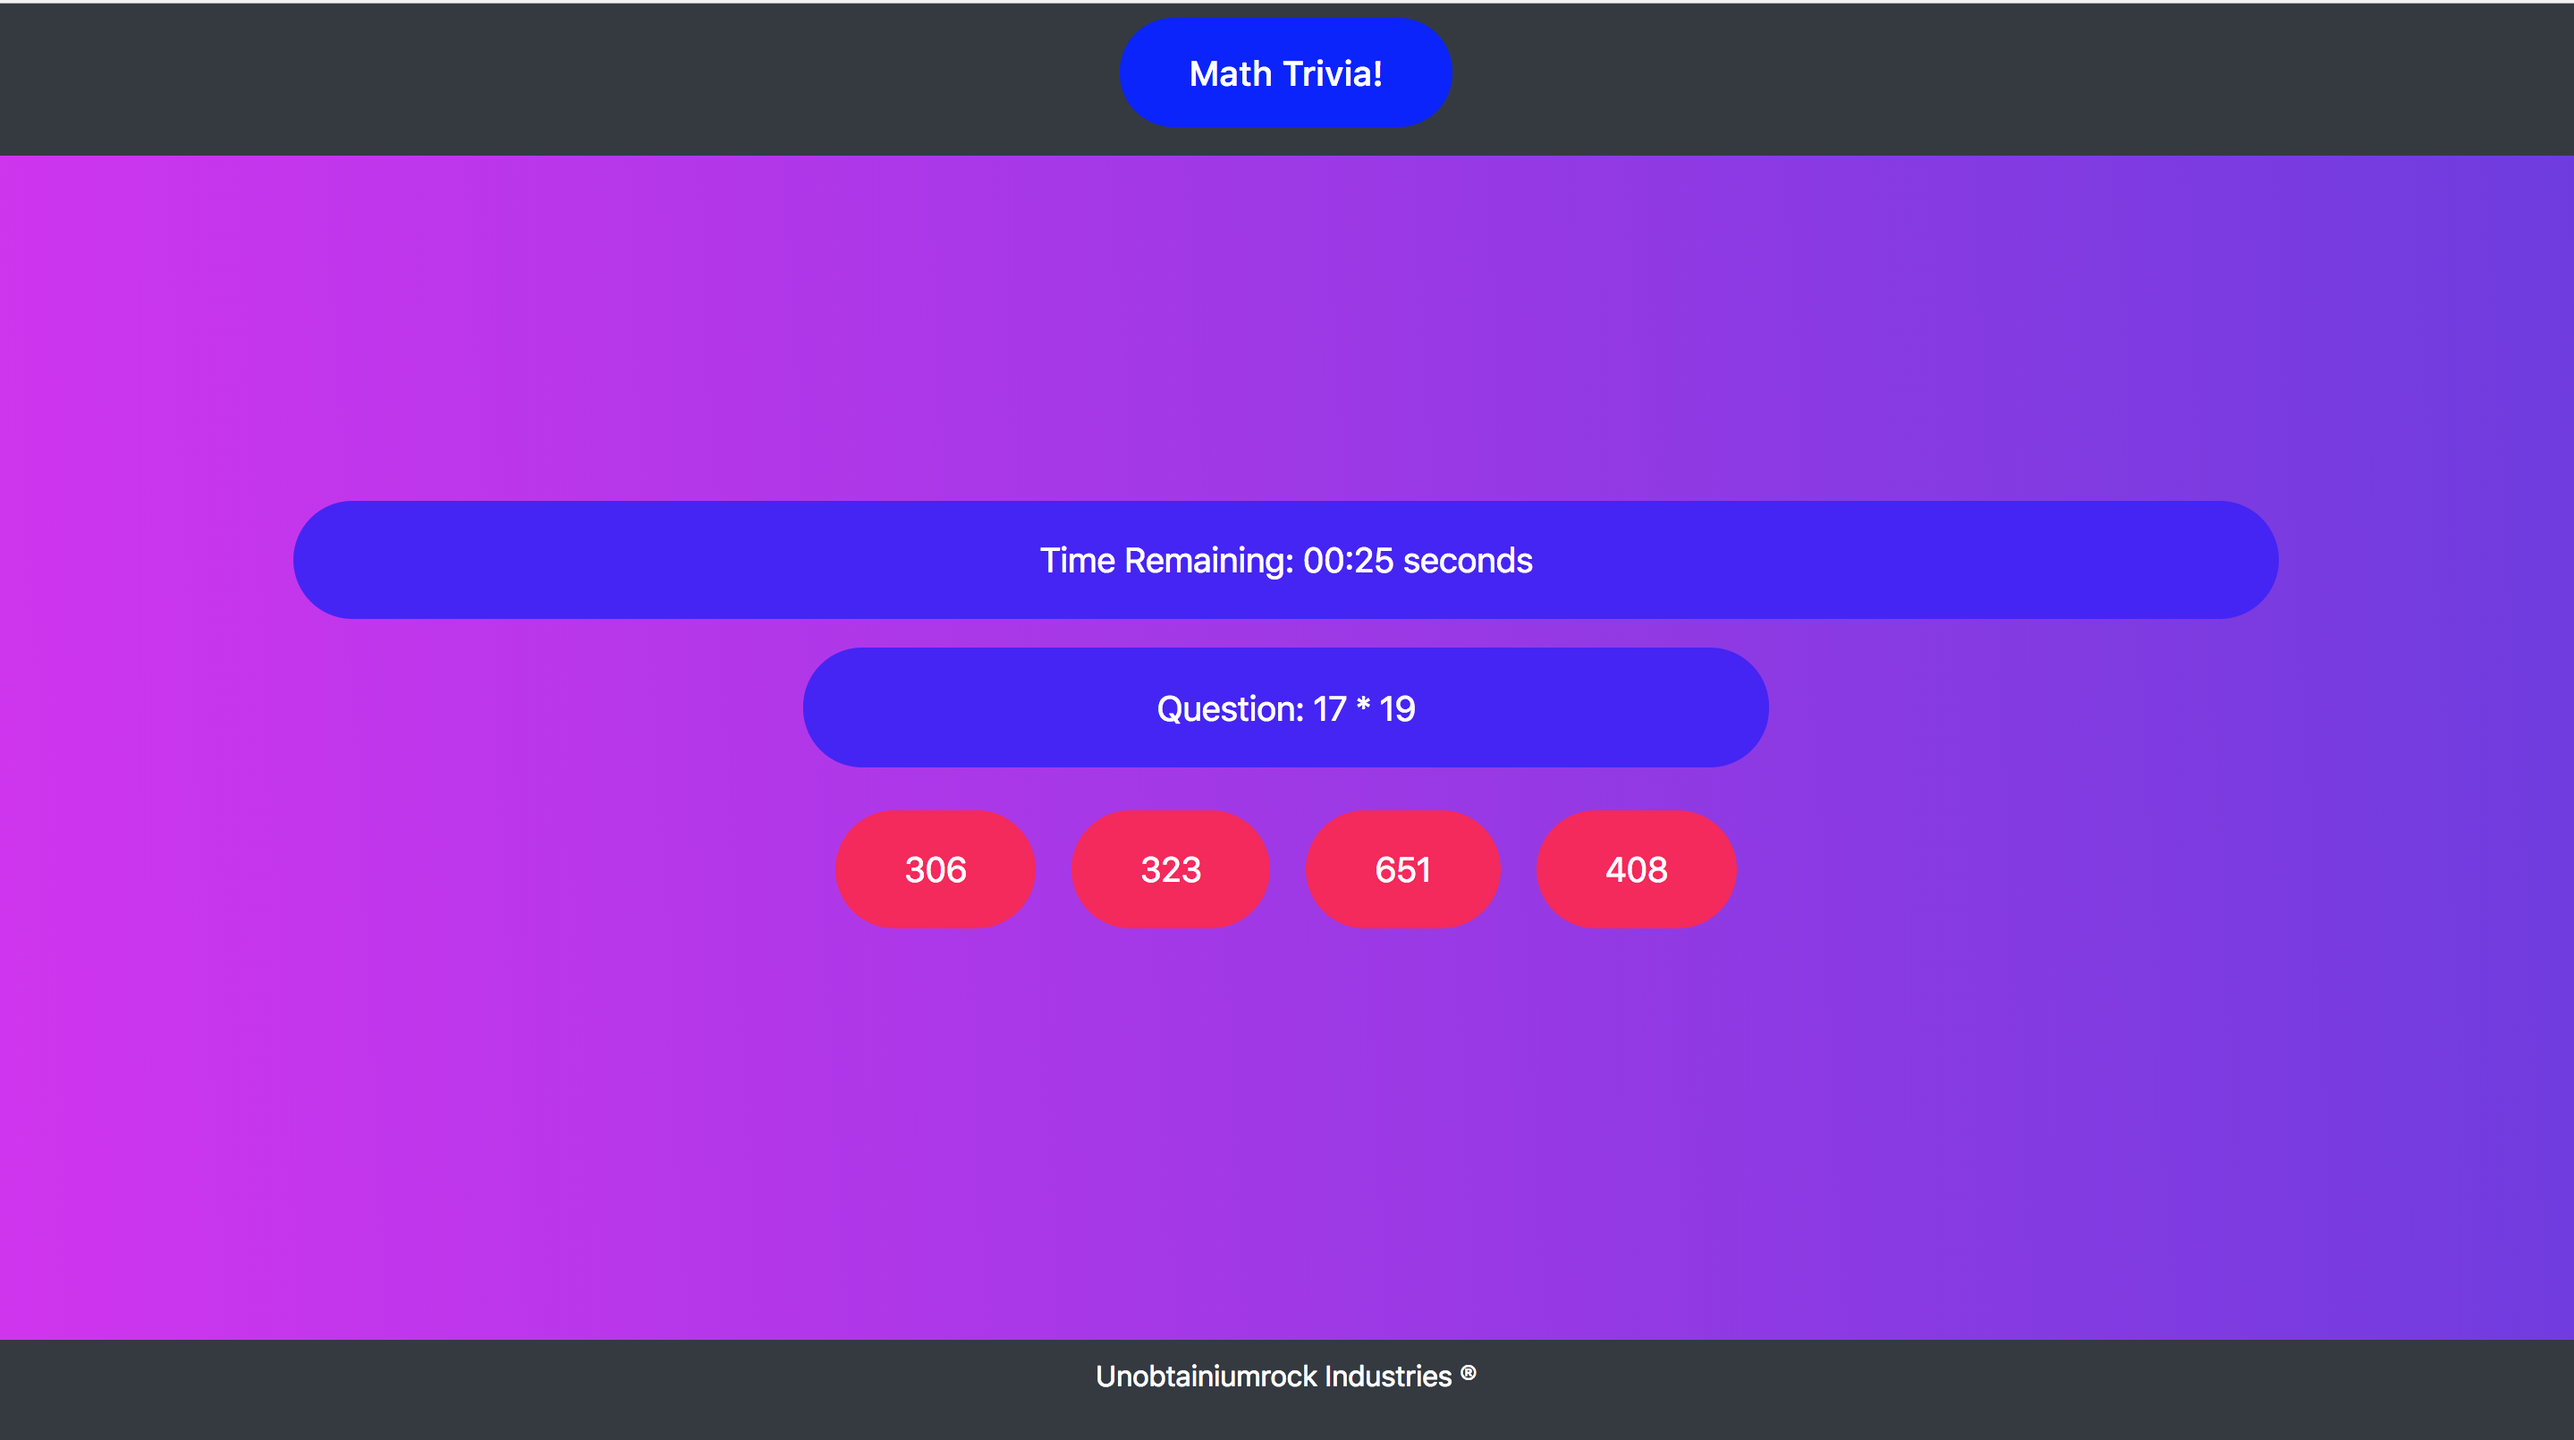
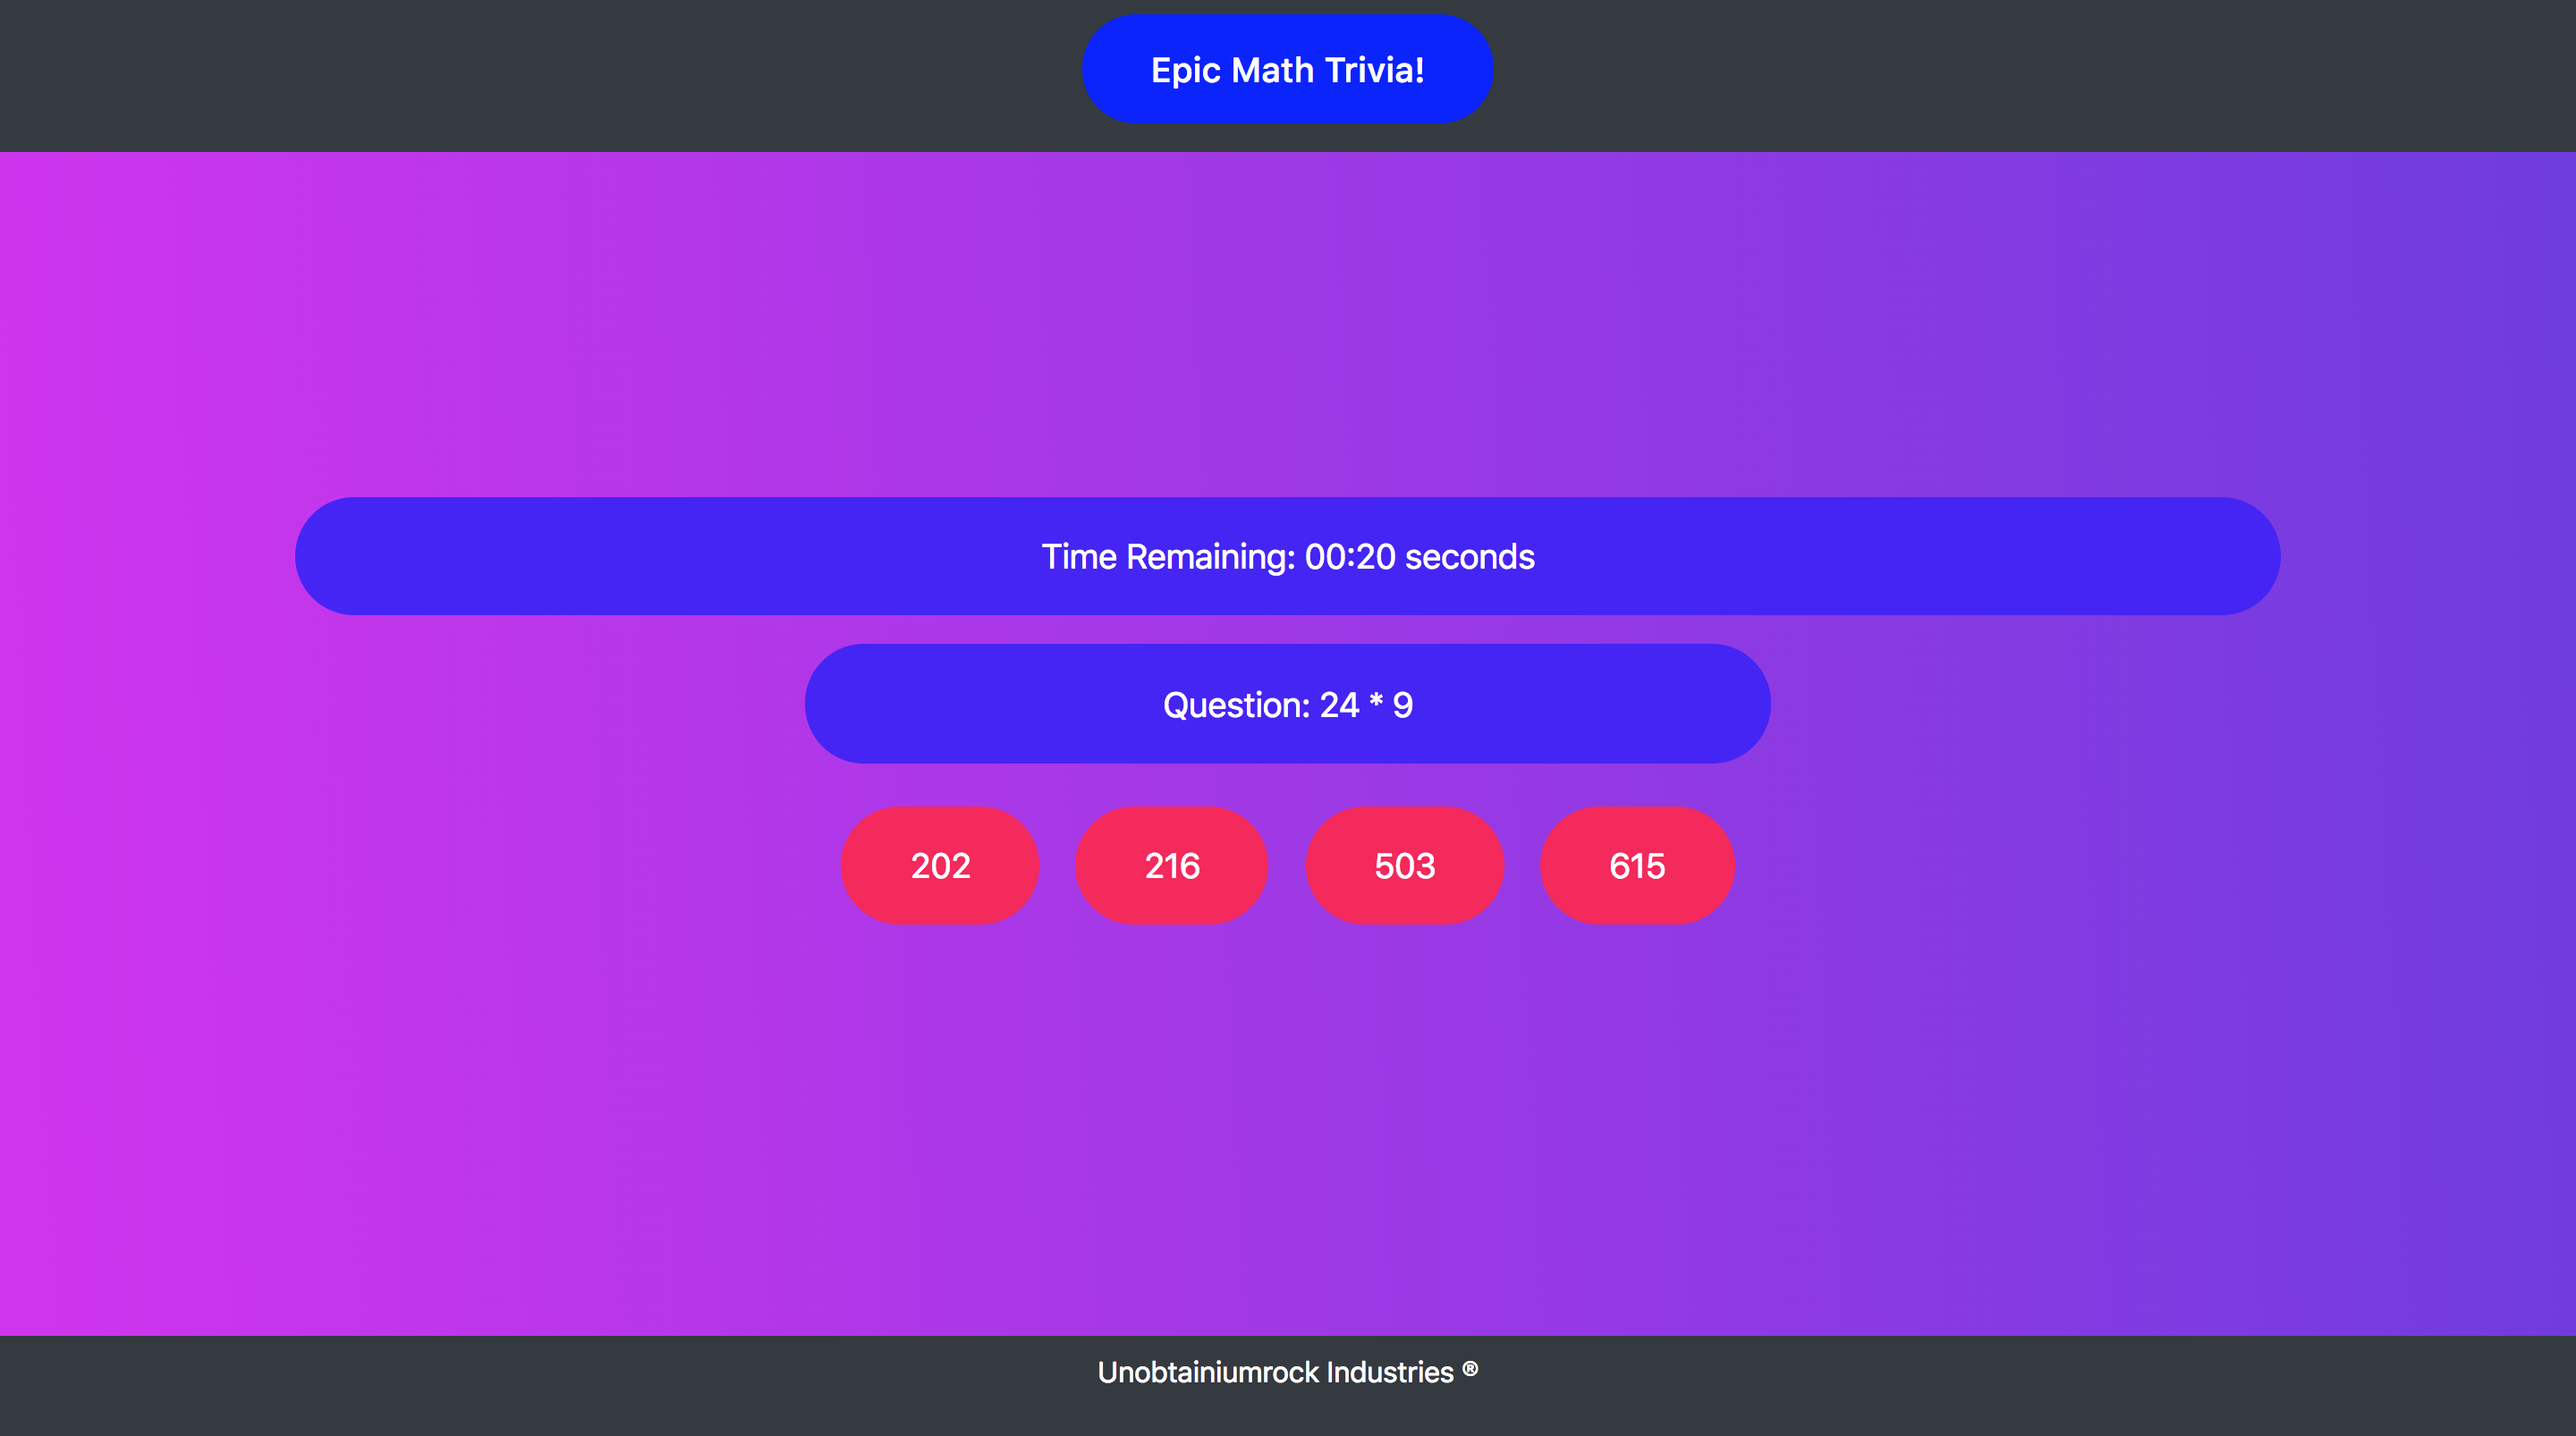
Change README.md link, change README.md image

diff --git a/index.html b/index.html
@@ -35,7 +35,7 @@
       <div class="col-md-12 text-center">
         <p id="game-over" class="blue-container"></p>
         <p id="countdown-info" class="blue-container">Time Remaining:
-          <span id="timer">00:30</span> seconds</p>
+          <span id="timer">00:20</span> seconds</p>
       </div>
     </div>
     <!-- Game -->

diff --git a/assets/javascript/timer.js b/assets/javascript/timer.js
@@ -8,11 +8,11 @@
   //  Our stopwatch object.
   let stopwatch = {
 
-    time: 30,
+    time: 20,
     
     reset: function() {
 
-      stopwatch.time = 30;
+      stopwatch.time = 20;
 
       $('#timer').html('00:30');
     },

diff --git a/README.md b/README.md
@@ -3,9 +3,8 @@
 This is a math trivia game. Five questions with four answer choices are randomly generated on each round. There is a 20 second time limit to answer each question before the answer is revealed. At the end of the game, your score of correct, incorrect, and unanswered questions will be displayed. You will then be given the option to try again if you'd like.
 
 ## Getting Started
-Click the image or link to go to the game.
 
-Hosted on [GitHub pages](https://unobtainiumrock.github.io/unit-4-game-without-hw-materials-/).
+Hosted on [GitHub pages](https://unobtainiumrock.github.io/trivia-game/).
 ![Epic Math Trivia](./assets/images/math-trivia.png "Epic Math Trivia")
 
 ## Built With
